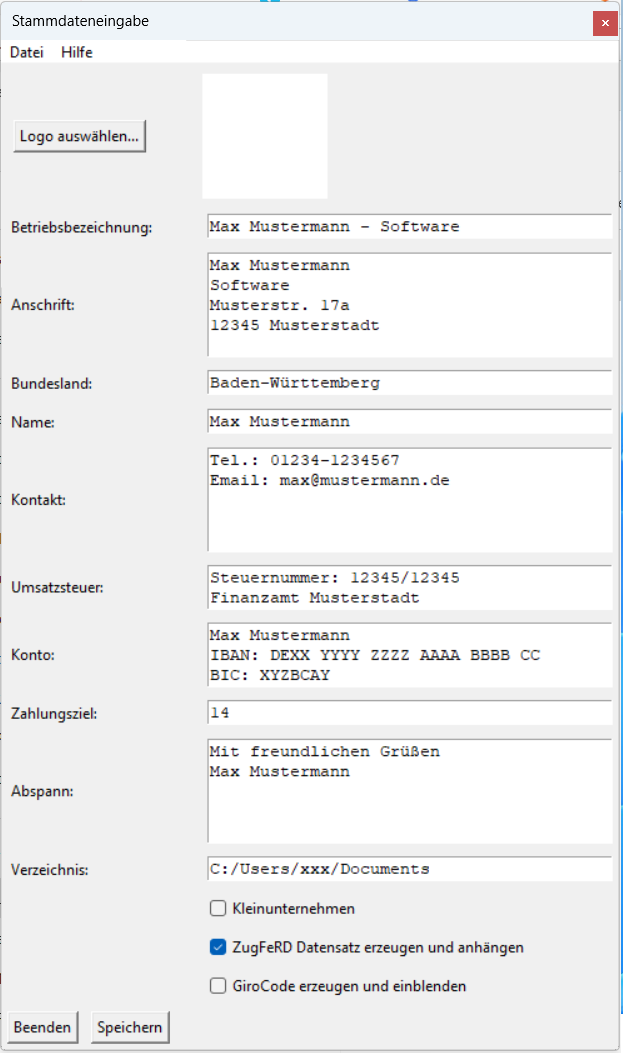
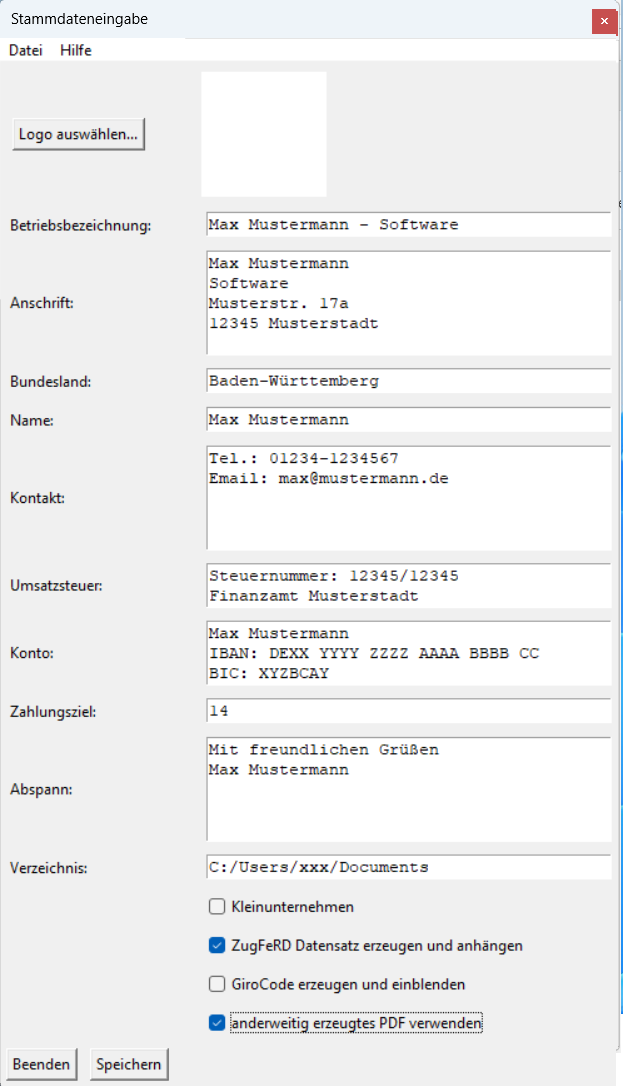
feat: #15 BYOPdf added

diff --git a/src/handle_other_objects.py b/src/handle_other_objects.py
@@ -1,5 +1,5 @@
 """
-Module handles Classes Adresse and Konto
+Module handles Classes Adresse, Konto and Steuerung
 """
 KONTAKT_ERROR = ValueError("'Kontakt': mindestens 2, maximal 3 Zeilen\n\
 Tel.: 012345-1234\nFax: 012345-1235 (optional)\nEmail: xyz@abcdef.de")
@@ -422,11 +422,14 @@ class Steuerung(object):
         self._create_girocode = None
         self._is_kleinunternehmen = None
         self._abspann = None
+        self._BYOPdf = None
 
     def __repr__(self) -> str:
         return f"Steuerung('create_xml: {self.create_xml}', \
  create_girocode: '{self.create_girocode}',\
- is_kleinunternehmen: '{self.is_kleinunternehmen}', abspann: '{self.abspann}')"
+ is_kleinunternehmen: '{self.is_kleinunternehmen}', abspann: '{self.abspann}',\
+ BYOPdf: '{BYOPdf}'\
+)"
 
     @property
     def create_xml(self):
@@ -460,6 +463,14 @@ class Steuerung(object):
     def abspann(self, value):
         self._abspann = value
 
+    @property
+    def BYOPdf(self):
+        return self._BYOPdf
+
+    @BYOPdf.setter
+    def BYOPdf(self, value):
+        self._BYOPdf = value
+
     def _fill_bools(self, thekeys, daten) -> None:
         self.create_girocode = (
             (daten["GiroCode"] == "Ja")
@@ -475,6 +486,11 @@ class Steuerung(object):
             (daten["Kleinunternehmen"] == "Ja")
             if "Kleinunternehmen" in thekeys and
             daten["Kleinunternehmen"] is not None else False
+        )
+        self.BYOPdf = (
+            (daten["BYOPdf"] == "Ja")
+            if "BYOPdf" in thekeys and
+            daten["BYOPdf"] is not None else False
         )
 
     def fill_steuerung(self, daten=None) -> None:

diff --git a/excel2zugferd.py b/excel2zugferd.py
@@ -64,6 +64,13 @@ fields = [
         "Type": "Boolean",
         "Variable": "GiroCode",
     },
+    {
+        "Text": "BYOPdf",
+        "Label": "anderweitig erzeugtes PDF verwenden",
+        "Lines": 1,
+        "Type": "Boolean",
+        "Variable": "BYOPdf",
+    }
 ]
 
 LABELWIDTH = 22
@@ -394,6 +401,14 @@ class OberflaecheExcel2Zugferd(Oberflaeche):
         self.save_button.pack(side=tk.LEFT, padx=PADX, pady=PADY)
         self.save_button.bind("<Return>", (lambda event: self.create_pdf()))
 
+    def _get_own_pdf(self):
+        fn = filedialog.askopenfilename(
+            title="Bitte die anderweitig erstellte PDF auswählen",
+            # initialdir=Path(init_dir).resolve(),
+            filetypes=(("PDF Datei", "*.pdf"), ("Alle Dateien", "*.*")),
+        )
+        return fn
+
     def _fill_pdf(self, directory, create_xml):
         try:
             self.pdf.fill_pdf()
@@ -421,7 +436,11 @@ class OberflaecheExcel2Zugferd(Oberflaeche):
                     file_name = os.path.join(
                         Path(tmp), fn
                     )  # doesn't matter, cannot exist twice
-                    self.pdf.output(file_name)
+                    if self.pdf.lieferantensteuerung.BYOPdf:
+                        theFile = self._get_own_pdf()
+                        shutil.copyfile(theFile, file_name)
+                    else:
+                        self.pdf.output(file_name)
                     # msg = f"Die Datei {fileName} wurde erstellt"
                     # messagebox.showinfo("Debug-Information", msg)
                     try:

diff --git a/README.md b/README.md
@@ -42,6 +42,11 @@ Als Vorlage benutzen Sie bitte die Datei TestRechnung.xlsx.
 
 ## Versionen
 
+### 0.12.0
+
+- Sie können mit der Option "anderweitig erzeugtes PDF verwenden" ein von Ihnen selbst anderweitig erzeugtes PDF verwenden und daran den ZugFeRD Part anhängen. Z.B. MS Office Professional Plus 2024 erzeugt ein PDF/A-3A Format, das verwendet werden kann. ACHTUNG: Es liegt in Ihrer Verantwortung, die verwendeten Daten zu prüfen; die Inhalte der PDF werden mit den Inhalten der ZugFeRD xml <b>nicht</b> verglichen !!! Ich prüfe den ZugFeRD Anteil mit Hilfe des Ultramarin eRechnung Viewer. Ein GiroCode kann dann nicht erzeugt  werden.
+- Die Validierung des erzeugten ZUGFeRD Dokuments auf https://www.portinvoice.com ist erfolgreich (Ohne Fehler und Warnungen).
+
 ### 0.11.0
 
 - Eingabe einer Umsatzsteuer-ID ermöglicht.
